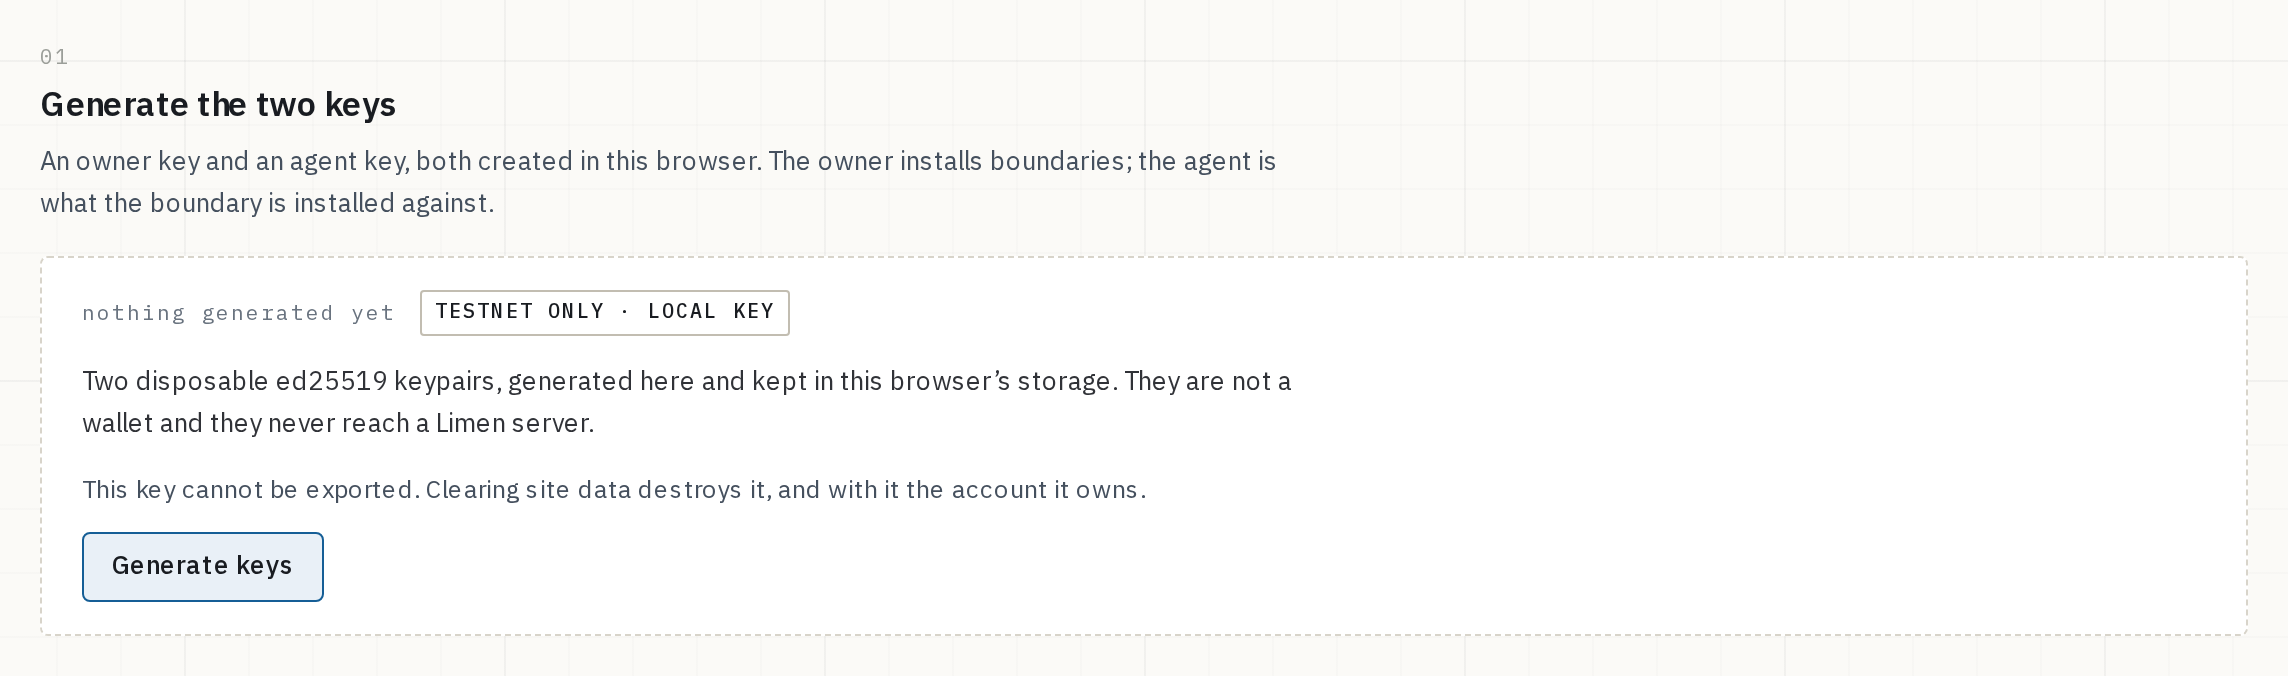
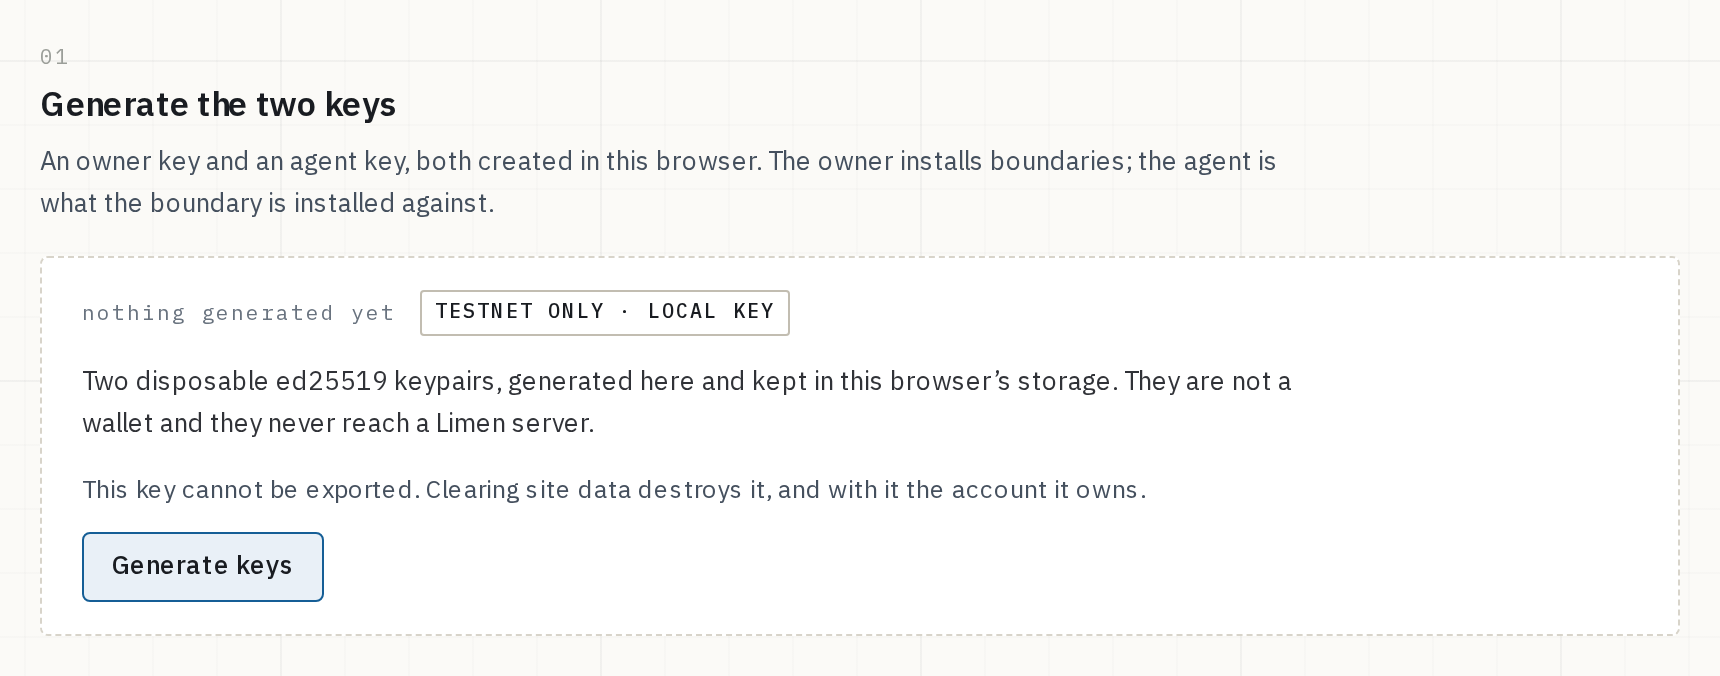
Shoot the product at 900, and refuse to ship a cut-off column
The crops were 1144px going into slots half that wide, which rendered the
application's 13px body text under 6px. 800 was the obvious answer and it was
wrong: at 800 the simulator's policy tables show 668px of 736px of content, so
`step-derive` and `step-install` both lost a column — silently, in the one
artefact nobody reviews column by column. The floor is 872, measured; 860 still
cuts, 880 does not.

So 900, giving crops of 860 that read at 0.74 in a 640px column with body text
near 9.6px. Rendered and looked at rather than calculated. 900 also clears `md`
at 768, which matters less for these subjects than it sounds — they use only
`sm:`, and their structure at 900 is identical to 1280, same grids and same crop
heights with only text wrapping differing — but the floor stands for whatever
gets photographed next.

The measurement is not the point; the guard is. `assertNothingScrolls` fails any
run where something inside a crop scrolls horizontally, names the element, and
computes the width that would fix it. A scroll box is a working control on a
live screen and a missing column in a photograph, and the photograph cannot show
you which it is. Proved able to fail before being trusted: at 860 it stops the
run and says to widen past 868.

`through`'s removal is what made the guard simple enough to be worth having —
one element per shot, one subtree to check.

diff --git a/PLAN-V5.md b/PLAN-V5.md
@@ -357,27 +357,34 @@ rather than letting them rot.
 No device frames, no perspective, no drop shadows. Cropped to the region that
 matters, on the surface step, with a hairline border.
 
-**Open, and it blocks the hero: the crops are too wide for the slots they go
-in.** Every shot is taken at a 1280 viewport and comes out about 1144 CSS px
-wide. §3.5 puts them in half-width slots — the hero's right column, and the
-alternating band through `How it works` — which is roughly 500px, so they render
-at 0.44 scale and the app's 13px body text lands near 6px. That is not a
-screenshot, it is a texture of a screenshot, and a picture nobody can read is
+**Resolved: shot at 900, not 1280.** The crops were about 1144 CSS px wide and
+§3.5's slots are roughly half a 74rem page, which rendered them near 0.44 scale
+and put the application's 13px body text under 6px. A picture nobody can read is
 decoration however real its data is.
 
-Three ways out, and the choice is the first piece of work in the hero:
+The width is bounded from both sides, and both bounds were measured against the
+running application rather than argued about:
 
-1. **Shoot narrower.** A second viewport width in the manifest — capture at
-   ~720px so the crop is ~680 wide and renders near 0.73 in a half-width slot.
-   Keeps the whole subject, costs a manifest field, and the app's own responsive
-   layout at 720 is a real layout rather than a contrivance.
-2. **Crop tighter.** Point `select` at the payload rather than the whole beat, so
-   the image is a smaller region shown larger. Best legibility, least context.
-3. **Show them full width.** Abandon the alternating half-width band for a
-   single column of wide images. Legible, but it is the composition §3.5 was
-   written to get away from.
+- **Not below 768**, Tailwind's `md`, or the shot shows a layout nobody on a
+  laptop sees. These subjects turn out to use only `sm:`, and their structure at
+  900 is identical to 1280 — same grids, same crop heights, only text wrapping
+  differs — but the floor stands for whatever gets photographed next.
+- **Not below ~872.** At 860 the simulator's policy tables are 728px wide around
+  736px of content and a column is cut off. This was not hypothetical: 800 was
+  the first candidate and it cut `step-derive` and `step-install` silently, in
+  the one artefact nobody reviews column by column.
 
-Not decided here. It wants the page in front of it.
+So 900, and crops of 860. `assertNothingScrolls` now fails any run where
+anything inside a crop scrolls horizontally, naming the element and computing
+the width that would fix it — a cut-off column can no longer ship quietly,
+which is what makes the number above a condition rather than an afternoon's
+measurement. It was proved able to fail before it was trusted: at 860 it stops
+the run and says to widen past 868.
+
+At 860 wide the images want an image column of about 640px, where they render at
+0.74 and the app's body text lands near 9.6px — checked by rendering, not by
+arithmetic. That is a constraint on §3.5's composition: **the alternating band
+gives the image ~640 and the text the rest**, rather than an even split.
 
 ~~Screenshots needed: the refusal table with real hashes (hero), and the four
 `How it works` steps — create, derive, install, revoke.~~
